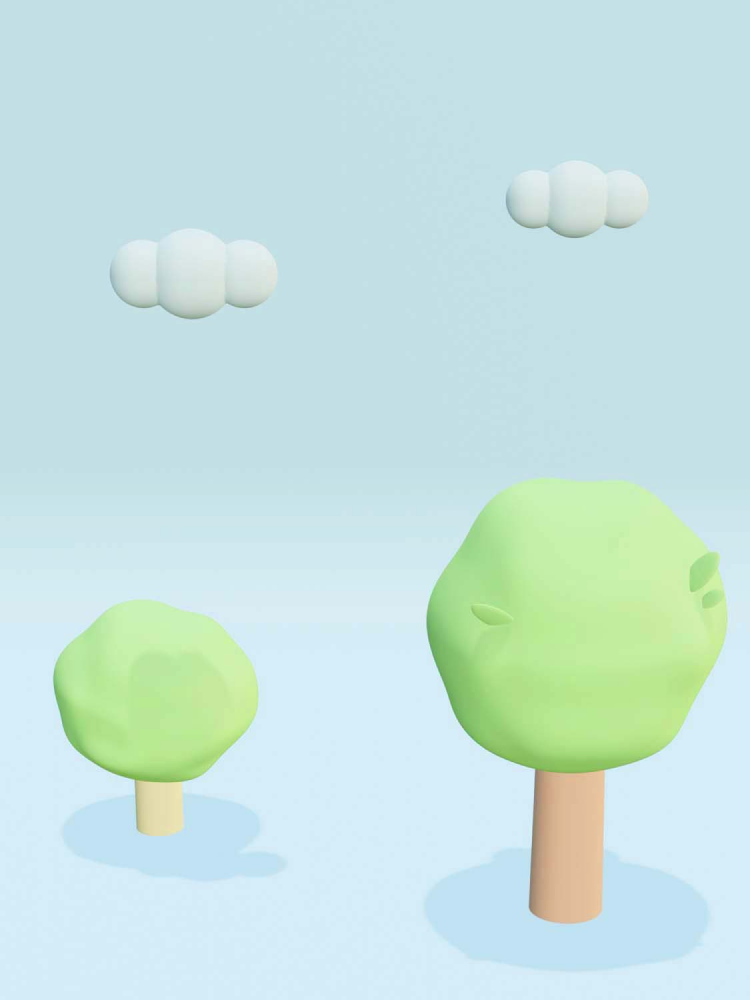
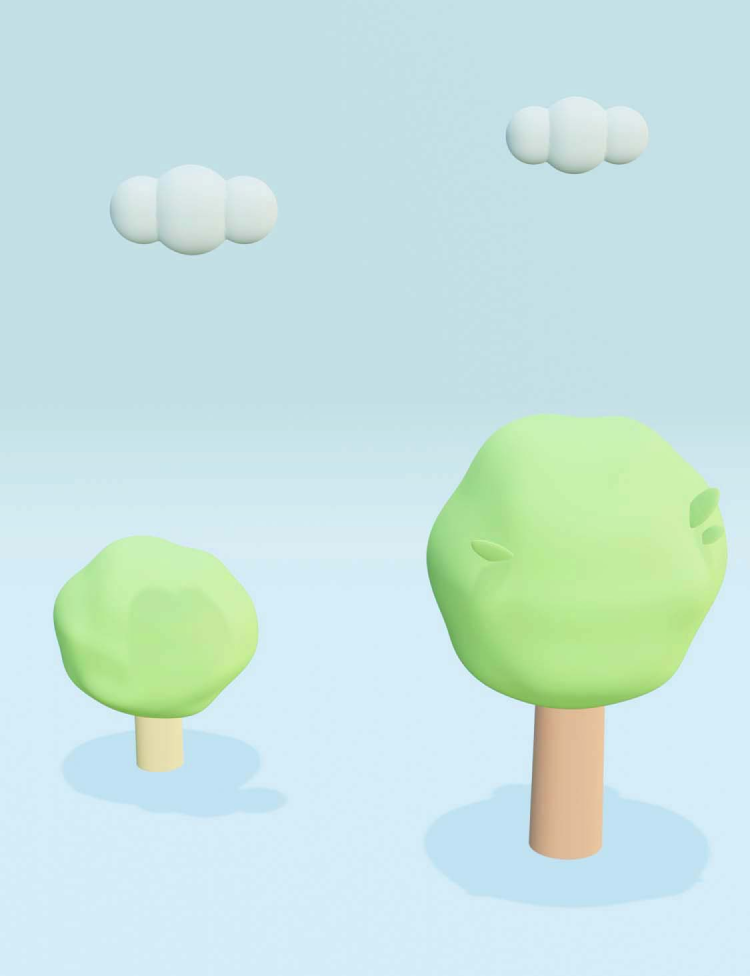
change home background image

diff --git a/paran_girin/lib/home/home_body.dart b/paran_girin/lib/home/home_body.dart
@@ -260,7 +260,7 @@ class HomeAvatar extends StatelessWidget {
               width: double.infinity,
               height: ScreenUtil().setHeight(488),
               child: Image.asset(
-                "assets/background/home_background.jpg",
+                "assets/background/home_background.png",
                 fit: BoxFit.cover,
               ),
             ),
